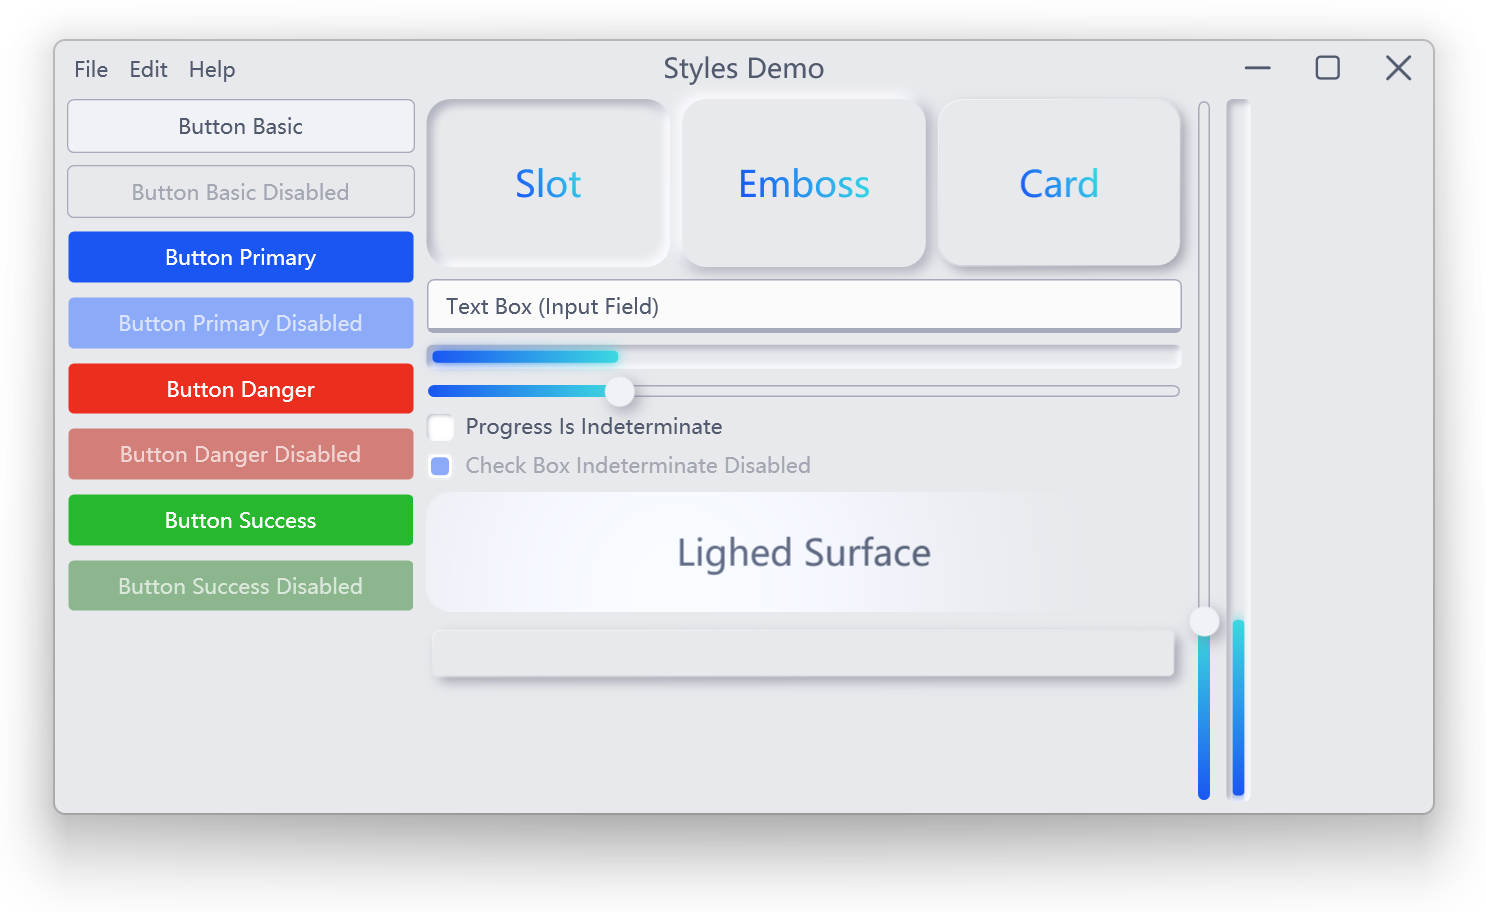
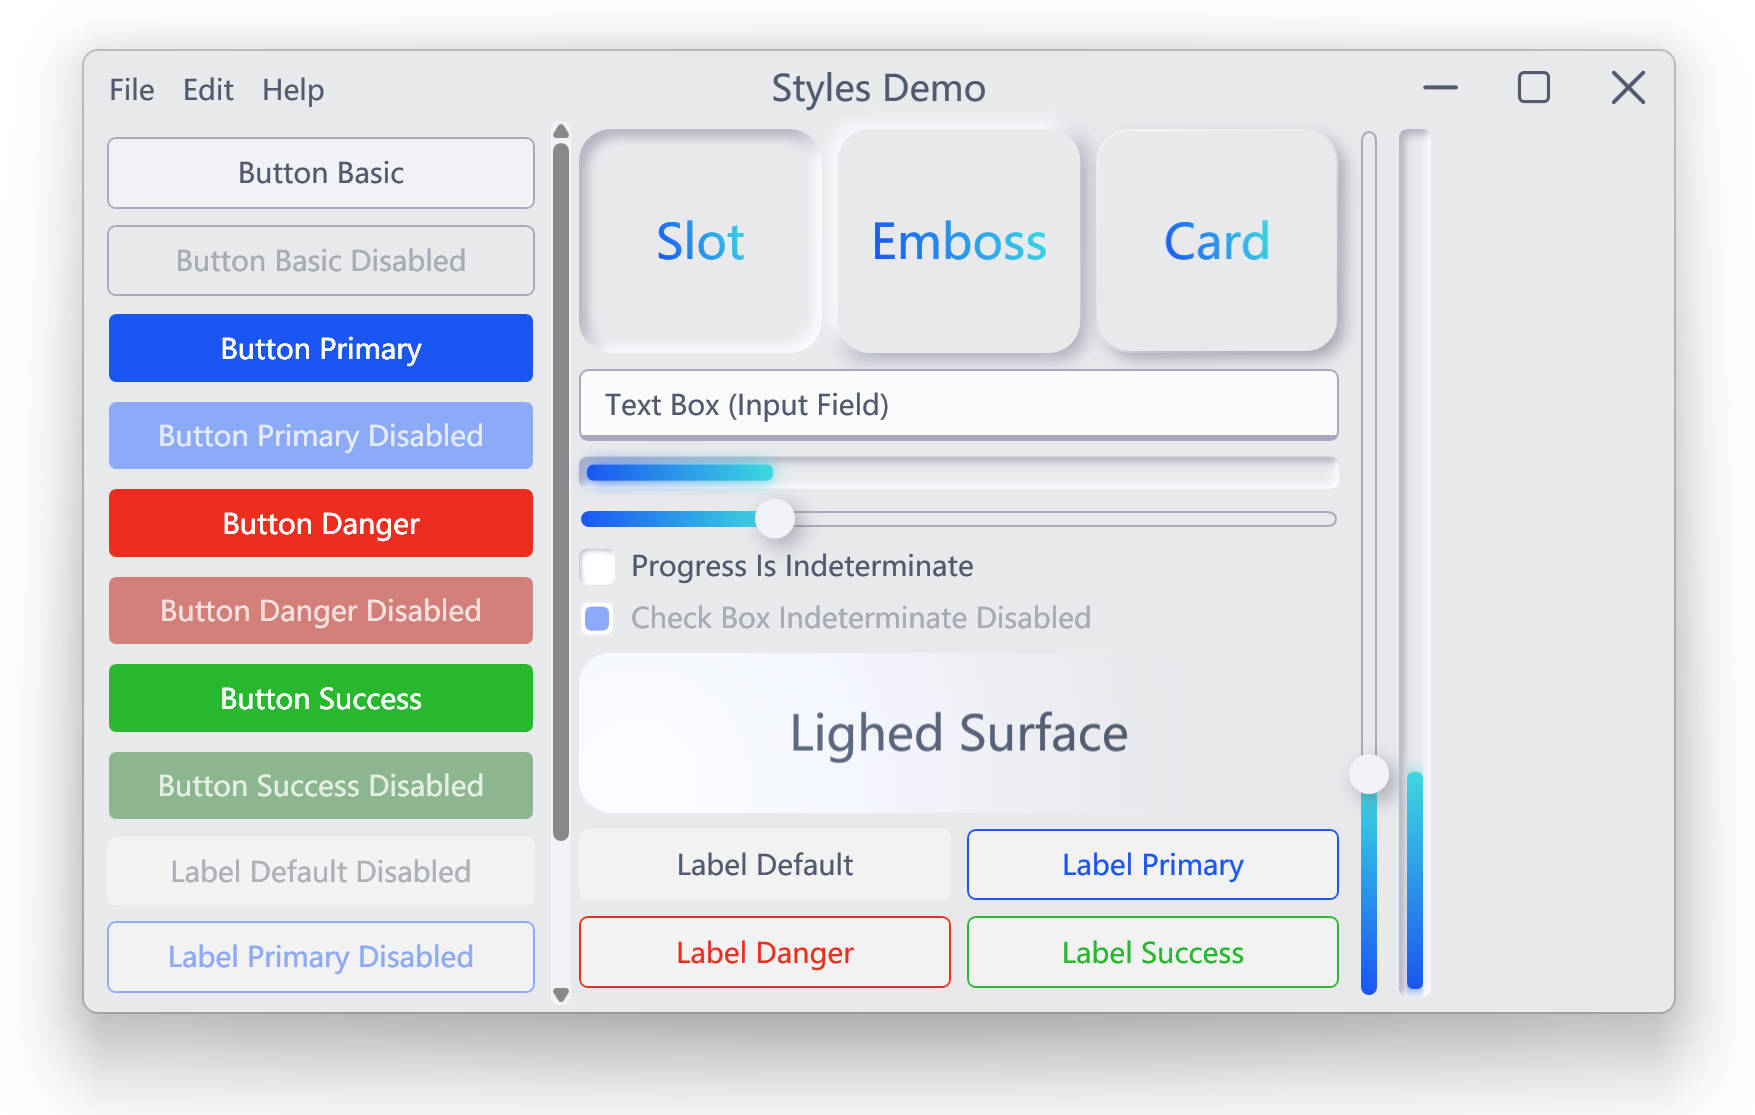
Adjust scrollbar
添加滚动条动画，修复在win11上的窗口边框问题

Changed region(s): [[0.031, 0.0307, 0.9596, 0.9211], [0.0929, 0.7675, 0.2786, 0.7982]]

diff --git a/SyminUI/Themes/Styles/ScrollViewerStyle.xaml b/SyminUI/Themes/Styles/ScrollViewerStyle.xaml
@@ -18,6 +18,83 @@
                   Figures="M24.57,12.84,14.45,7A3.65,3.65,0,0,0,9,10.16
                   V21.84A3.65,3.65,0,0,0,14.45,25l10.12-5.84
                   A3.65,3.65,0,0,0,24.57,12.84Z"/>
+    
+    <!--显示两端按钮-->
+    <Storyboard x:Key="ShowScrollItem">
+        <DoubleAnimation To="1" Duration="0:0:0.2"
+                         Storyboard.TargetProperty="Opacity"
+                         Storyboard.TargetName="border"/>
+    </Storyboard>
+    <!--隐藏两端按钮-->
+    <Storyboard x:Key="HideScrollItem">
+        <DoubleAnimationUsingKeyFrames Duration="0:0:1.2"
+                         Storyboard.TargetProperty="Opacity"
+                         Storyboard.TargetName="border">
+            <LinearDoubleKeyFrame Value="1" KeyTime="0:0:0.2"/>
+            <LinearDoubleKeyFrame Value="1" KeyTime="0:0:1"/>
+            <LinearDoubleKeyFrame Value="0" KeyTime="0:0:1.2"/>
+        </DoubleAnimationUsingKeyFrames>
+    </Storyboard>
+    <!--展开滚动条-->
+    <Storyboard x:Key="ExpandBar">
+        <ThicknessAnimation To="1" Duration="0:0:0.2"
+                            Storyboard.TargetProperty="Margin"
+                            Storyboard.TargetName="rectangle"/>
+        <DoubleAnimation To="4" Duration="0:0:0.2"
+                         Storyboard.TargetProperty="RadiusX"
+                         Storyboard.TargetName="rectangle"/>
+        <DoubleAnimation To="4" Duration="0:0:0.2"
+                         Storyboard.TargetProperty="RadiusY"
+                         Storyboard.TargetName="rectangle"/>
+    </Storyboard>
+    <!--收缩垂直滚动条-->
+    <Storyboard x:Key="ShrinkVerticalBar">
+        <ThicknessAnimationUsingKeyFrames Duration="0:0:1.2"
+                                          Storyboard.TargetProperty="Margin"
+                                          Storyboard.TargetName="rectangle">
+            <LinearThicknessKeyFrame Value="1" KeyTime="0:0:0.2"/>
+            <LinearThicknessKeyFrame Value="1" KeyTime="0:0:1"/>
+            <LinearThicknessKeyFrame Value="6,1,1,1" KeyTime="0:0:1.2"/>
+        </ThicknessAnimationUsingKeyFrames>
+        <DoubleAnimationUsingKeyFrames Duration="0:0:1.2"
+                         Storyboard.TargetProperty="RadiusX"
+                         Storyboard.TargetName="rectangle">
+            <LinearDoubleKeyFrame Value="4" KeyTime="0:0:0.2"/>
+            <LinearDoubleKeyFrame Value="4" KeyTime="0:0:1"/>
+            <LinearDoubleKeyFrame Value="1.5" KeyTime="0:0:1.2"/>
+        </DoubleAnimationUsingKeyFrames>
+        <DoubleAnimationUsingKeyFrames Duration="0:0:1.2"
+                         Storyboard.TargetProperty="RadiusY"
+                         Storyboard.TargetName="rectangle">
+            <LinearDoubleKeyFrame Value="4" KeyTime="0:0:0.2"/>
+            <LinearDoubleKeyFrame Value="4" KeyTime="0:0:1"/>
+            <LinearDoubleKeyFrame Value="1.5" KeyTime="0:0:1.2"/>
+        </DoubleAnimationUsingKeyFrames>
+    </Storyboard>
+    <!--收缩水平滚动条-->
+    <Storyboard x:Key="ShrinkHorizontalBar">
+        <ThicknessAnimationUsingKeyFrames Duration="0:0:1.2"
+                                          Storyboard.TargetProperty="Margin"
+                                          Storyboard.TargetName="rectangle">
+            <LinearThicknessKeyFrame Value="1" KeyTime="0:0:0.2"/>
+            <LinearThicknessKeyFrame Value="1" KeyTime="0:0:1"/>
+            <LinearThicknessKeyFrame Value="1,6,1,1" KeyTime="0:0:1.2"/>
+        </ThicknessAnimationUsingKeyFrames>
+        <DoubleAnimationUsingKeyFrames Duration="0:0:1.2"
+                         Storyboard.TargetProperty="RadiusX"
+                         Storyboard.TargetName="rectangle">
+            <LinearDoubleKeyFrame Value="4" KeyTime="0:0:0.2"/>
+            <LinearDoubleKeyFrame Value="4" KeyTime="0:0:1"/>
+            <LinearDoubleKeyFrame Value="1.5" KeyTime="0:0:1.2"/>
+        </DoubleAnimationUsingKeyFrames>
+        <DoubleAnimationUsingKeyFrames Duration="0:0:1.2"
+                         Storyboard.TargetProperty="RadiusY"
+                         Storyboard.TargetName="rectangle">
+            <LinearDoubleKeyFrame Value="4" KeyTime="0:0:0.2"/>
+            <LinearDoubleKeyFrame Value="4" KeyTime="0:0:1"/>
+            <LinearDoubleKeyFrame Value="1.5" KeyTime="0:0:1.2"/>
+        </DoubleAnimationUsingKeyFrames>
+    </Storyboard>
 
     <!--滚动条两端按钮-->
     <Style x:Key="ScrollBarButton" TargetType="{x:Type RepeatButton}">
@@ -30,7 +107,7 @@
         <Setter Property="Template">
             <Setter.Value>
                 <ControlTemplate TargetType="{x:Type RepeatButton}">
-                    <Border x:Name="border" 
+                    <Border x:Name="border" Margin="1" Opacity="0"
                             SnapsToDevicePixels="true">
                         <Path x:Name="arrowPath" 
                               Data="{TemplateBinding sva:IconElement.Geometry}"
@@ -44,17 +121,23 @@
                         </Trigger>
                         <Trigger Property="IsPressed" Value="true">
                             <Setter Property="Margin" TargetName="border"
-                                    Value="0.5"/>
+                                    Value="1.5"/>
                         </Trigger>
-                        <Trigger Property="IsEnabled" Value="false">
-                            <!--渐变动画浮现-->
+                        <Trigger Property="IsEnabled" Value="True">
+                            <!--TODO:不知道是不是要移除原有动画，原有动画是否会被自动释放-->
+                            <Trigger.EnterActions>
+                                <BeginStoryboard Storyboard="{StaticResource ShowScrollItem}"/>
+                            </Trigger.EnterActions>
+                            <Trigger.ExitActions>
+                                <BeginStoryboard Storyboard="{StaticResource HideScrollItem}"/>
+                            </Trigger.ExitActions>
                         </Trigger>
                     </ControlTemplate.Triggers>
                 </ControlTemplate>
             </Setter.Value>
         </Setter>
     </Style>
-    
+    <!--垂直滑块-->
     <Style x:Key="ScrollBarThumbVertical" TargetType="{x:Type Thumb}">
         <Setter Property="OverridesDefaultStyle" Value="true"/>
         <Setter Property="IsTabStop" Value="false"/>
@@ -62,47 +145,55 @@
             <Setter.Value>
                 <ControlTemplate TargetType="{x:Type Thumb}">
                     
-                    <Rectangle x:Name="rectangle" 
+                    <Rectangle x:Name="rectangle" Margin="6,1,1,1"
                                RadiusX="4" RadiusY="4"
                                Fill="{StaticResource Background.Handler}" 
                                Width="{TemplateBinding Width}"
                                Height="{TemplateBinding Height}" 
                                SnapsToDevicePixels="True"/>
                     <ControlTemplate.Triggers>
-                        <Trigger Property="IsMouseOver" Value="true">
-                            <Setter Property="Fill" TargetName="rectangle" 
-                                    Value="{StaticResource Background.Handler.Focused}"/>
+                        <Trigger Property="IsEnabled" Value="True">
+                            <Trigger.EnterActions>
+                                <BeginStoryboard Storyboard="{StaticResource ExpandBar}"/>
+                            </Trigger.EnterActions>
+                            <Trigger.ExitActions>
+                                <BeginStoryboard Storyboard="{StaticResource ShrinkVerticalBar}"/>
+                            </Trigger.ExitActions>
                         </Trigger>
                         <Trigger Property="IsDragging" Value="true">
-                            <Setter Property="Margin" TargetName="rectangle" 
-                                    Value="0.5"/>
+                            <Setter Property="Fill" TargetName="rectangle" 
+                                    Value="{StaticResource Background.Handler.Focused}"/>
                         </Trigger>
                     </ControlTemplate.Triggers>
                 </ControlTemplate>
             </Setter.Value>
         </Setter>
     </Style>
-    
+    <!--水平滑块-->
     <Style x:Key="ScrollBarThumbHorizontal" TargetType="{x:Type Thumb}">
         <Setter Property="OverridesDefaultStyle" Value="true"/>
         <Setter Property="IsTabStop" Value="false"/>
         <Setter Property="Template">
             <Setter.Value>
                 <ControlTemplate TargetType="{x:Type Thumb}">
-                    <Rectangle x:Name="rectangle" 
+                    <Rectangle x:Name="rectangle" Margin="1,6,1,1"
                                RadiusX="4" RadiusY="4"
                                Fill="{StaticResource Background.Handler}" 
                                Width="{TemplateBinding Width}"
                                Height="{TemplateBinding Height}" 
                                SnapsToDevicePixels="True"/>
                     <ControlTemplate.Triggers>
-                        <Trigger Property="IsMouseOver" Value="true">
-                            <Setter Property="Fill" TargetName="rectangle" 
-                                    Value="{StaticResource Background.Handler.Focused}"/>
+                        <Trigger Property="IsEnabled" Value="True">
+                            <Trigger.EnterActions>
+                                <BeginStoryboard Storyboard="{StaticResource ExpandBar}"/>
+                            </Trigger.EnterActions>
+                            <Trigger.ExitActions>
+                                <BeginStoryboard Storyboard="{StaticResource ShrinkHorizontalBar}"/>
+                            </Trigger.ExitActions>
                         </Trigger>
                         <Trigger Property="IsDragging" Value="true">
-                            <Setter Property="Margin" TargetName="rectangle" 
-                                    Value="0.5"/>
+                            <Setter Property="Fill" TargetName="rectangle" 
+                                    Value="{StaticResource Background.Handler.Focused}"/>
                         </Trigger>
                     </ControlTemplate.Triggers>
                 </ControlTemplate>
@@ -117,7 +208,7 @@
                 <RowDefinition Height="*"/>
                 <RowDefinition MaxHeight="10"/>
             </Grid.RowDefinitions>
-            <Rectangle x:Name="PART_bg" Visibility="Collapsed"
+            <Rectangle x:Name="border" Opacity="0"
                        RadiusX="4" RadiusY="4"
                        Fill="{TemplateBinding Background}" Grid.RowSpan="3"/>
             <RepeatButton x:Name="PART_LineUpButton" 
@@ -136,7 +227,8 @@
                                   Style="{StaticResource RepeatButtonTransparent}"/>
                 </Track.IncreaseRepeatButton>
                 <Track.Thumb>
-                    <Thumb Style="{StaticResource ScrollBarThumbVertical}"/>
+                    <Thumb x:Name="ThumbPart" IsEnabled="False"
+                           Style="{StaticResource ScrollBarThumbVertical}"/>
                 </Track.Thumb>
             </Track>
             <RepeatButton x:Name="PART_LineDownButton" 
@@ -148,7 +240,13 @@
         </Grid>
         <ControlTemplate.Triggers>
             <Trigger Property="IsMouseOver" Value="True">
-                <Setter Property="Visibility" TargetName="PART_bg" Value="Visible"/>
+                <Setter Property="IsEnabled" TargetName="ThumbPart" Value="True"/>
+                <Trigger.EnterActions>
+                    <BeginStoryboard Storyboard="{StaticResource ShowScrollItem}"/>
+                </Trigger.EnterActions>
+                <Trigger.ExitActions>
+                    <BeginStoryboard Storyboard="{StaticResource HideScrollItem}"/>
+                </Trigger.ExitActions>
             </Trigger>
             <Trigger Property="IsEnabled" Value="false">
                 <Setter Property="Visibility" TargetName="PART_LineUpButton" Value="Hidden"/>
@@ -164,7 +262,7 @@
                 <ColumnDefinition Width="*"/>
                 <ColumnDefinition MaxWidth="10"/>
             </Grid.ColumnDefinitions>
-            <Rectangle x:Name="PART_bg" Visibility="Collapsed"
+            <Rectangle x:Name="border" Opacity="0"
                        RadiusX="4" RadiusY="4"
                        Fill="{TemplateBinding Background}" Grid.ColumnSpan="3"/>
             <RepeatButton x:Name="PART_LineLeftButton" 
@@ -183,7 +281,8 @@
                                   Style="{StaticResource RepeatButtonTransparent}"/>
                 </Track.IncreaseRepeatButton>
                 <Track.Thumb>
-                    <Thumb Style="{StaticResource ScrollBarThumbHorizontal}"/>
+                    <Thumb x:Name="ThumbPart" IsEnabled="False"
+                           Style="{StaticResource ScrollBarThumbHorizontal}"/>
                 </Track.Thumb>
             </Track>
             <RepeatButton x:Name="PART_LineRightButton" Grid.Column="2" 
@@ -195,7 +294,13 @@
         </Grid>
         <ControlTemplate.Triggers>
             <Trigger Property="IsMouseOver" Value="True">
-                <Setter Property="Visibility" TargetName="PART_bg" Value="Visible"/>
+                <Setter Property="IsEnabled" TargetName="ThumbPart" Value="True"/>
+                <Trigger.EnterActions>
+                    <BeginStoryboard Storyboard="{StaticResource ShowScrollItem}"/>
+                </Trigger.EnterActions>
+                <Trigger.ExitActions>
+                    <BeginStoryboard Storyboard="{StaticResource HideScrollItem}"/>
+                </Trigger.ExitActions>
             </Trigger>
             <Trigger Property="IsEnabled" Value="false">
                 <Setter Property="Visibility" TargetName="PART_LineLeftButton" Value="Hidden"/>
@@ -210,15 +315,15 @@
         <Setter Property="Stylus.IsFlicksEnabled" Value="false"/>
         <Setter Property="Background" Value="{StaticResource Background.Button}"/>
         <Setter Property="BorderThickness" Value="1,0"/>
-        <Setter Property="Width" Value="8"/>
-        <Setter Property="MinWidth" Value="8"/>
+        <Setter Property="Width" Value="10"/>
+        <Setter Property="MinWidth" Value="10"/>
         <Setter Property="Template" Value="{StaticResource ScrollBarVerticalTemplate}"/>
         <Style.Triggers>
             <Trigger Property="Orientation" Value="Horizontal">
                 <Setter Property="Width" Value="Auto"/>
                 <Setter Property="MinWidth" Value="0"/>
-                <Setter Property="Height" Value="8"/>
-                <Setter Property="MinHeight" Value="8"/>
+                <Setter Property="Height" Value="10"/>
+                <Setter Property="MinHeight" Value="10"/>
                 <Setter Property="BorderThickness" Value="0,1"/>
                 <Setter Property="Template" Value="{StaticResource ScrollBarHorizontalTemplate}"/>
             </Trigger>

diff --git a/SyminViewTest/StyleTestWindow.xaml b/SyminViewTest/StyleTestWindow.xaml
@@ -6,7 +6,7 @@
         xmlns:local="clr-namespace:SyminViewTest"
         xmlns:svd="clr-namespace:SyminUI.Controls.Decorations;assembly=SyminUI"
         mc:Ignorable="d"
-        Title="Styles Demo" Height="600" Width="800"
+        Title="Styles Demo" Height="480" Width="800"
         Style="{StaticResource Window.Normal}"
         >
     <Grid Margin="4">
@@ -53,6 +53,14 @@
                     Style="{StaticResource ButtonSuccess}"/>
                 <Button Content="Button Success Disabled" 
                     Style="{StaticResource ButtonSuccess}" IsEnabled="False"/>
+
+                <Label Content="Label Default Disabled" IsEnabled="False"/>
+                <Label Content="Label Primary Disabled" 
+                       Style="{StaticResource LabelPrimary}" IsEnabled="False"/>
+                <Label Content="Label Danger Disabled" 
+                       Style="{StaticResource LabelDanger}" IsEnabled="False"/>
+                <Label Content="Label Success Disabled" 
+                       Style="{StaticResource LabelSuccess}" IsEnabled="False"/>
             </StackPanel>
         </ScrollViewer>
         
@@ -89,9 +97,12 @@
                                  CornerRadius="16" Content="Lighed Surface" FontSize="24"/>
             <UniformGrid Rows="2" Columns="2">
                 <Label Content="Label Default"/>
-                <Label Content="Label Primary" Style="{StaticResource LabelPrimary}"/>
-                <Label Content="Label Danger" Style="{StaticResource LabelDanger}"/>
-                <Label Content="Label Success" Style="{StaticResource LabelSuccess}"/>
+                <Label Content="Label Primary" 
+                       Style="{StaticResource LabelPrimary}"/>
+                <Label Content="Label Danger" 
+                       Style="{StaticResource LabelDanger}"/>
+                <Label Content="Label Success" 
+                       Style="{StaticResource LabelSuccess}"/>
             </UniformGrid>
         </StackPanel>
 

diff --git a/SyminUI/Themes/Styles/WindowStyle.xaml b/SyminUI/Themes/Styles/WindowStyle.xaml
@@ -12,7 +12,7 @@
         <Setter Property="Template">
             <Setter.Value>
                 <ControlTemplate TargetType="{x:Type Window}">
-                    <Border x:Name="windowBorder" Padding="3,32,3,3">
+                    <Border x:Name="windowBorder" Padding="2,32,2,2">
                         <Grid x:Name="RootGrid" Background="{TemplateBinding Background}">
                             <!--自定义标题栏-->
                             <Grid VerticalAlignment="Top" Height="32" Margin="0,-32,0,0">
